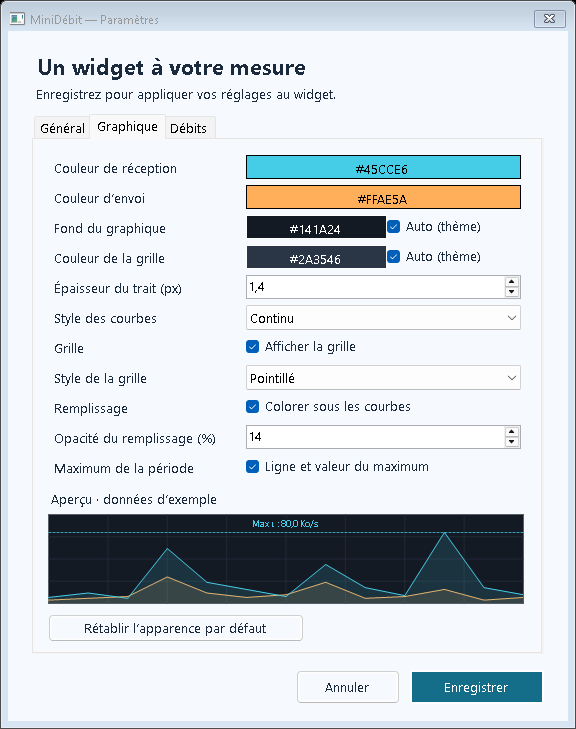
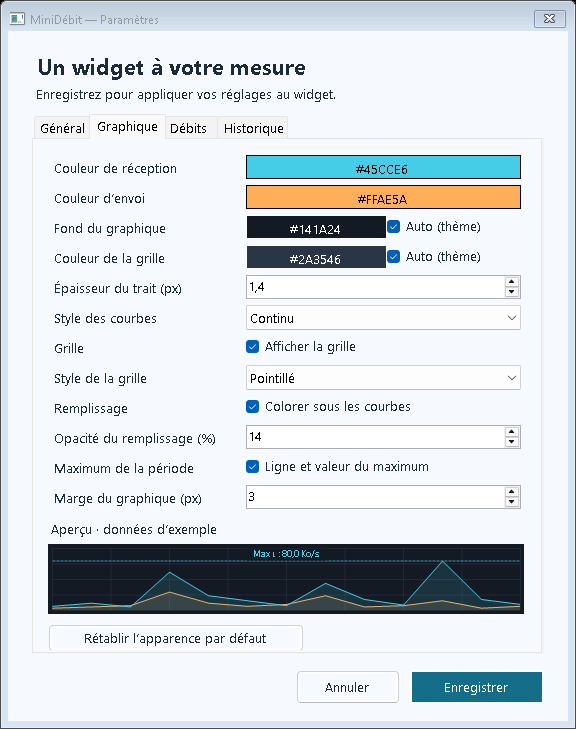
Ajouter une marge réglable au graphique
Ajoute un paramètre de marge du graphique (0–20 px, 3 px par défaut) avec aperçu instantané et contraintes pour conserver un rendu lisible dans les petits widgets. Le rendu du maximum et l’emplacement du libellé sont ajustés pour tenir compte de la marge, et la documentation ainsi que la version du projet sont mises à jour (1.1.1).

Changed region(s): [[0.0625, 0.6639, 0.9375, 0.9053], [0.4062, 0.1509, 0.4375, 0.1811]]

diff --git a/Bandwidth/SettingsForm.cs b/Bandwidth/SettingsForm.cs
@@ -75,7 +75,7 @@ public sealed class SettingsForm : Form
         general.Controls.Add(new Label { Location = new Point(12, 343), Size = new Size(476, 80), ForeColor = Color.FromArgb(94, 115, 141), Text = "La période affichée est indépendante du délai de mesure.\n\nLe cumul peut compter deux fois le trafic d’un VPN.\nPour une mesure précise, choisissez une seule carte réseau." });
 
         var appearance = settings.Graph;
-        var graphTable = Table(graph, 11, 30);
+        var graphTable = Table(graph, 12, 30);
         var down = new ColorField(appearance.DownColor, appearance.Reception);
         var up = new ColorField(appearance.UpColor, appearance.Sending);
         var background = new ColorField(appearance.BackgroundColor, appearance.Background(settings.Dark), true);
@@ -98,14 +98,17 @@ public sealed class SettingsForm : Form
         Row(graphTable, 9, "Opacité du remplissage (%)", fillOpacity);
         var showMaximum = new CheckBox { Text = "Ligne et valeur du maximum", Checked = appearance.ShowMaximum, Dock = DockStyle.Fill };
         Row(graphTable, 10, "Maximum de la période", showMaximum);
+        var margin = Number(0, 20, appearance.MarginPixels);
+        Row(graphTable, 11, "Marge du graphique (px)", margin);
         GraphAppearance ReadAppearance() => new()
         {
             DownColor = down.Value, UpColor = up.Value, BackgroundColor = background.Value, GridColor = gridColor.Value,
             LineWidth = (double)thickness.Value, LineStyle = lineStyle.SelectedIndex, ShowGrid = showGrid.Checked,
-            GridStyle = gridStyle.SelectedIndex, FillArea = fill.Checked, FillOpacityPercent = (int)fillOpacity.Value, ShowMaximum = showMaximum.Checked
+            GridStyle = gridStyle.SelectedIndex, FillArea = fill.Checked, FillOpacityPercent = (int)fillOpacity.Value, ShowMaximum = showMaximum.Checked,
+            MarginPixels = (int)margin.Value
         };
-        graph.Controls.Add(new Label { Text = "Aperçu · données d’exemple", Location = new Point(12, 350), AutoSize = true });
-        var preview = new GraphPreview(ReadAppearance, () => theme.SelectedIndex == 0) { Location = new Point(12, 374), Size = new Size(476, 90) };
+        graph.Controls.Add(new Label { Text = "Aperçu · données d’exemple", Location = new Point(12, 380), AutoSize = true });
+        var preview = new GraphPreview(ReadAppearance, () => theme.SelectedIndex == 0) { Location = new Point(12, 404), Size = new Size(476, 70) };
         graph.Controls.Add(preview);
         var rateTable = Table(ratePage, 4, 40);
         var rateBackground = new ColorField(settings.Rates.BackgroundColor, settings.Rates.Background(settings.Graph, settings.Dark), true, "Fond graphique");
@@ -179,6 +182,7 @@ public sealed class SettingsForm : Form
         }
         foreach (var color in new[] { down, up, background, gridColor }) color.Changed += (_, _) => RefreshPreview();
         thickness.ValueChanged += (_, _) => RefreshPreview();
+        margin.ValueChanged += (_, _) => RefreshPreview();
         fillOpacity.ValueChanged += (_, _) => RefreshPreview();
         lineStyle.SelectedIndexChanged += (_, _) => RefreshPreview();
         gridStyle.SelectedIndexChanged += (_, _) => RefreshPreview();
@@ -186,7 +190,7 @@ public sealed class SettingsForm : Form
         fill.CheckedChanged += (_, _) => RefreshPreview();
         showMaximum.CheckedChanged += (_, _) => RefreshPreview();
         theme.SelectedIndexChanged += (_, _) => RefreshPreview();
-        var reset = new Button { Text = "Rétablir l’apparence par défaut", Location = new Point(12, 474), Size = new Size(256, 28) };
+        var reset = new Button { Text = "Rétablir l’apparence par défaut", Location = new Point(12, 484), Size = new Size(256, 28) };
         graph.Controls.Add(reset);
         reset.Click += (_, _) =>
         {
@@ -197,6 +201,7 @@ public sealed class SettingsForm : Form
             showGrid.Checked = defaults.ShowGrid; gridStyle.SelectedIndex = defaults.GridStyle;
             fill.Checked = defaults.FillArea; fillOpacity.Value = defaults.FillOpacityPercent;
             showMaximum.Checked = defaults.ShowMaximum;
+            margin.Value = defaults.MarginPixels;
             RefreshPreview();
         };
         RefreshPreview();

diff --git a/Bandwidth/GraphAppearance.cs b/Bandwidth/GraphAppearance.cs
@@ -19,6 +19,7 @@ public sealed class GraphAppearance
     public bool FillArea { get; set; } = true;
     public int FillOpacityPercent { get; set; } = 14;
     public bool ShowMaximum { get; set; } = true;
+    public int MarginPixels { get; set; } = 3;
 
     public void Normalize()
     {
@@ -30,6 +31,7 @@ public sealed class GraphAppearance
         LineStyle = Math.Clamp(LineStyle, 0, 2);
         GridStyle = Math.Clamp(GridStyle, 0, 2);
         FillOpacityPercent = Math.Clamp(FillOpacityPercent, 0, 100);
+        MarginPixels = Math.Clamp(MarginPixels, 0, 20);
     }
 
     internal static string NormalizeColor(string? value, string fallback) =>
@@ -63,7 +65,7 @@ internal static class GraphRenderer
         using var format = new StringFormat { Alignment = StringAlignment.Center, LineAlignment = StringAlignment.Center,
             FormatFlags = StringFormatFlags.NoWrap, Trimming = StringTrimming.EllipsisCharacter };
         float width = Math.Min(chart.Width - 4, g.MeasureString(label, font).Width + 8);
-        var textBounds = new RectangleF(chart.Left + (chart.Width - width) / 2, y - 14, width, 12);
+        var textBounds = new RectangleF(chart.Left + (chart.Width - width) / 2, Math.Max(chart.Top, y - 14), width, 12);
         using var background = new SolidBrush(appearance.Background(dark));
         using var text = new SolidBrush(color);
         g.FillRectangle(background, textBounds);
@@ -131,8 +133,10 @@ internal sealed class GraphPreview : Control
         float dpi = DeviceDpi / 96f;
         g.ScaleTransform(dpi, dpi);
         g.SmoothingMode = SmoothingMode.AntiAlias;
-        var chart = new RectangleF(0, 0, Width / dpi - 1, Height / dpi - 1);
         var style = appearance();
+        float margin = style.MarginPixels + 1;
+        g.Clear(style.Background(dark()));
+        var chart = new RectangleF(margin, margin, Width / dpi - 2 * margin, Height / dpi - 2 * margin);
         GraphRenderer.Backdrop(g, chart, style, dark());
         PointF[] Points(float[] values) => values.Select((value, index) =>
             new PointF(chart.Left + index * chart.Width / (values.Length - 1), chart.Bottom - value * chart.Height)).ToArray();

diff --git a/Bandwidth/Widget.cs b/Bandwidth/Widget.cs
@@ -187,13 +187,17 @@ public sealed class Widget : Form
             DrawButton(g, 1, "−", w - 55);
             DrawButton(g, 2, "×", w - 29);
         }
-        float chartTop = HeaderVisible ? 65 : 13;
+        float margin = settings.Graph.MarginPixels + 1; // Keep the window border even at zero margin.
         float rateHeight = RateRenderer.Measure(rateFont, labelFont, arrowFont, settings.Rates.Compact).Height;
-        var chart = new RectangleF(13, chartTop, w - 26, h - chartTop - rateHeight - 9);
+        float headerHeight = HeaderVisible ? 62 : 0;
+        // Preserve room for the graph in small widgets with large fonts and margins.
+        float verticalMargin = Math.Min(settings.Graph.MarginPixels, Math.Max(0, (h - headerHeight - rateHeight - 18) / 2));
+        float chartTop = headerHeight + 1 + verticalMargin;
+        var chart = new RectangleF(margin, chartTop, w - 2 * margin, Math.Max(1, h - chartTop - rateHeight - 1 - verticalMargin));
         if (HeaderVisible)
         {
-            DrawText(g, Units.Rate(scale, settings.Bits), smallFont, Muted, new RectangleF(13, chartTop - 16, 160, 14));
-            DrawText(g, Units.Duration(settings.HistorySeconds), smallFont, Muted, new RectangleF(w - 84, chartTop - 16, 71, 14), StringAlignment.Far);
+            DrawText(g, Units.Rate(scale, settings.Bits), smallFont, Muted, new RectangleF(13, 47, 160, 14));
+            DrawText(g, Units.Duration(settings.HistorySeconds), smallFont, Muted, new RectangleF(w - 84, 47, 71, 14), StringAlignment.Far);
         }
         GraphRenderer.Backdrop(g, chart, settings.Graph, settings.Dark);
         DrawSeries(g, chart, false, UpColor);

diff --git a/README.md b/README.md
@@ -19,7 +19,7 @@ La distribution inclut le programme, ses fichiers .NET et ce guide ; elle n’em
 ## Utilisation
 
 - **Glisser la fenêtre** pour la déplacer ; tirer son coin inférieur droit pour la redimensionner.
-- Le **bandeau supérieur** (titre, carte réseau, boutons, échelle et durée) apparaît uniquement lorsque la souris survole le widget. Hors survol, le graphique récupère 52 pixels de hauteur ; les débits restent visibles en bas.
+- Le **bandeau supérieur** (titre, carte réseau, boutons, échelle et durée) apparaît uniquement lorsque la souris survole le widget. Hors survol, le graphique récupère cet espace ; les débits restent visibles en bas.
 - **Roue dentée**, **double-clic** ou **clic droit → Paramètres** : configurer le widget.
 - **−** ou **Échap** : masquer le widget dans la zone de notification près de l’horloge. Son icône peut se trouver dans le menu des icônes masquées de Windows.
 - **Double-clic sur l’icône** : afficher le widget.
@@ -36,6 +36,8 @@ La position, les dimensions et les paramètres sont mémorisés dans `%LOCALAPPD
 L’onglet **Général** regroupe les paramètres de mesure et du widget. L’onglet **Graphique** permet de personnaliser les couleurs de réception, d’envoi, du fond et de la grille, l’épaisseur des courbes (0,5 à 6 px), leur style (continu, pointillé ou tirets), la présence et le style de la grille, ainsi que le remplissage et son opacité (0 à 100 %). « Auto (thème) » fait suivre au fond et à la grille le thème clair ou sombre.
 
 ![Apparence du graphique](docs/settings-graph.png)
+
+**Graphique → Marge du graphique (px)** règle l’espace autour du graphique, de **0 à 20 px**, avec **3 px par défaut** pour gagner de la surface d’affichage. Le réglage s’applique aux quatre côtés, avec ou sans survol, et l’aperçu réagit immédiatement. La bordure de fenêtre reste visible à zéro ; dans un petit widget, les marges verticales sont limitées si nécessaire pour conserver un graphique lisible. La valeur est mémorisée avec les autres paramètres et suit la mise à l’échelle Windows.
 
 Le graphique affiche une ligne horizontale en tirets au niveau du **maximum observé sur la période visible**, avec la valeur juste au-dessus. La flèche et la couleur indiquent si ce pic vient de la réception (↓) ou de l’envoi (↑) ; les deux débits sont comparés, sans les additionner. Le maximum baisse lorsque les anciens pics sortent de la période. Il utilise les mêmes unités que le widget et reste visible hors survol. **Graphique → Maximum de la période** permet de masquer ou d’afficher ce repère. Si le maximum dépasse une échelle fixe, la ligne reste au plafond et la valeur exacte porte la mention « hors échelle ».
 
